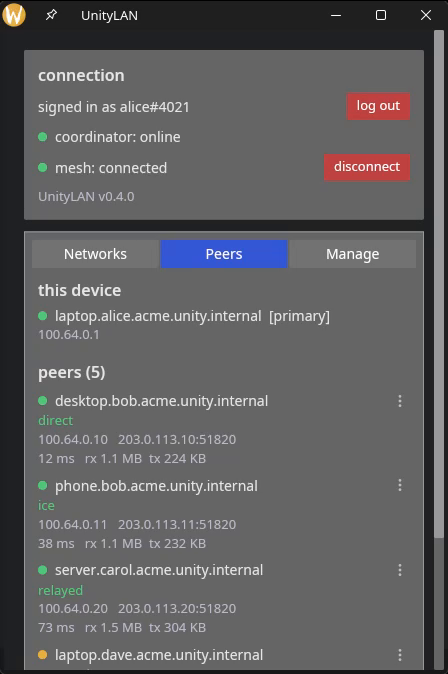
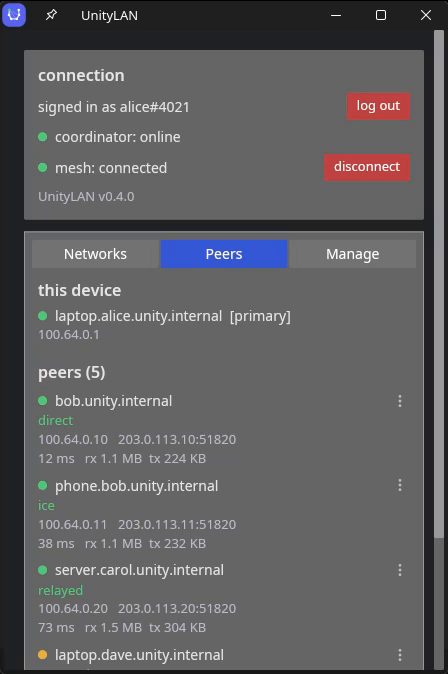
docs(readme): regen demo assets + fix own-device name to new hostname scheme
The fake-engine demo fixture still built the own-device hostname with a
community label (`laptop.alice.acme.unity.internal`); drop it to match the new
`<device>.<user>.unity.internal` scheme. Regenerate demo.gif + stills so the
README shows current naming (peers already updated in the naming commit).

diff --git a/crates/gui/examples/fake-engine.rs b/crates/gui/examples/fake-engine.rs
@@ -170,7 +170,7 @@ impl State {
 fn fixture_self() -> DeviceStatus {
     DeviceStatus {
         wg_ip: Ipv4Addr::new(100, 64, 0, 1),
-        hostname: "laptop.alice.acme.unity.internal".into(),
+        hostname: "laptop.alice.unity.internal".into(),
         is_primary: true,
         networks: vec!["Engineering".into(), "Gaming".into()],
     }